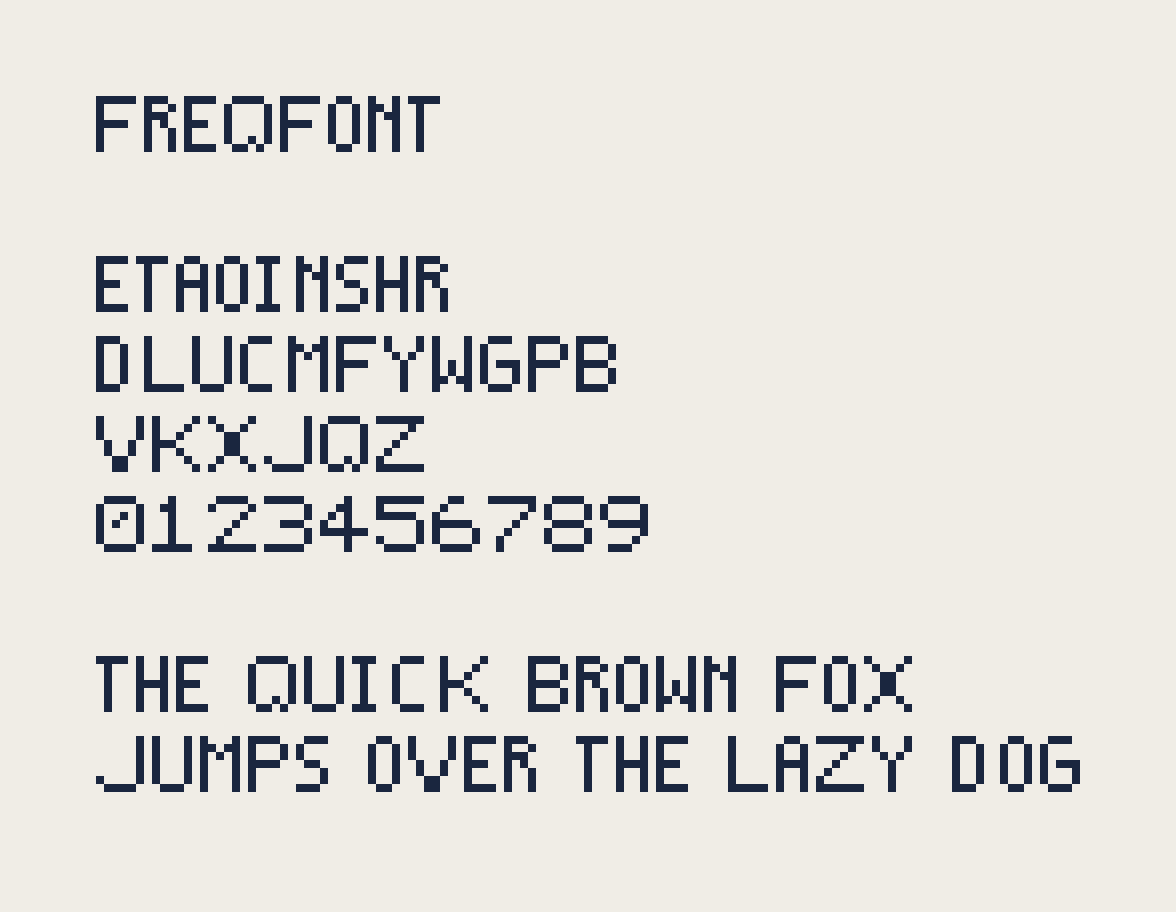
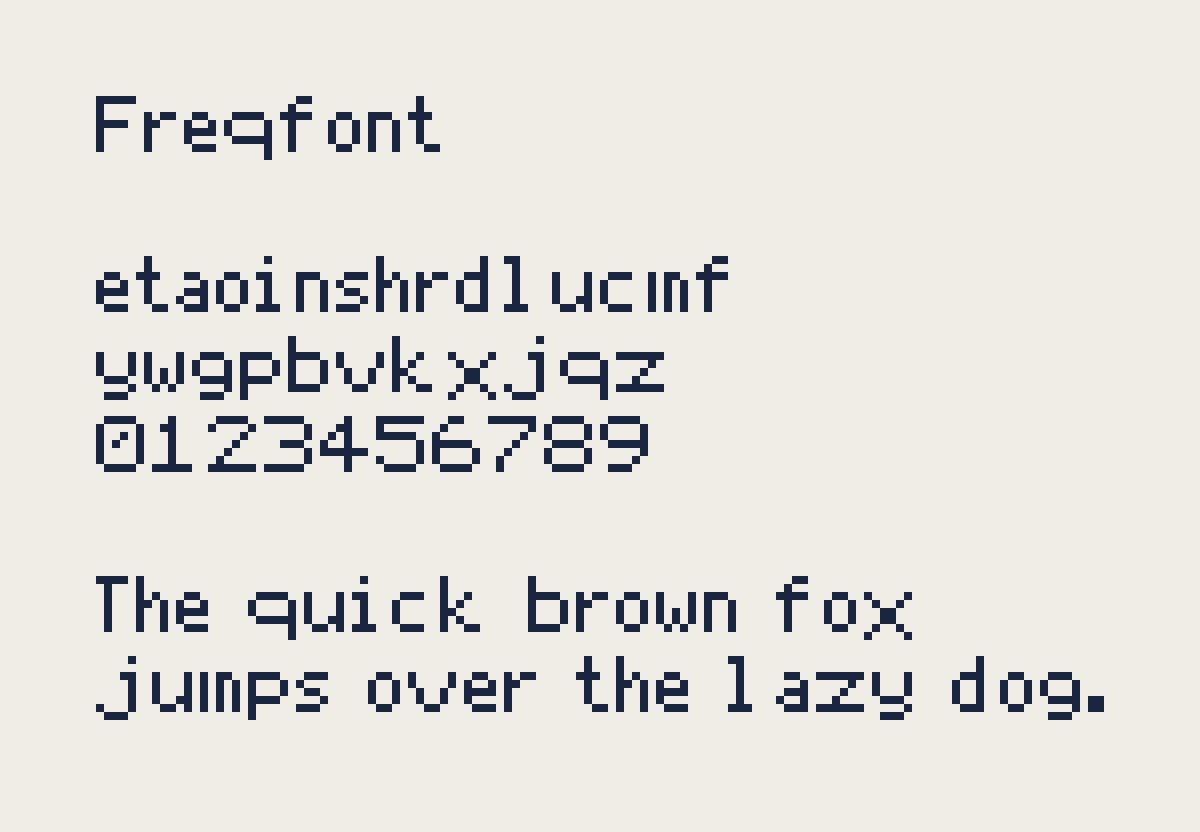
cycle3 i20: freqfont lowercase — same frequency, same width, new letterforms

Changed region(s): [[0.0612, 0.2812, 0.6122, 0.625], [0.0612, 0.6875, 0.9184, 0.875], [0.0612, 0.0938, 0.3673, 0.1875]]

diff --git a/font/freqfont.py b/font/freqfont.py
@@ -68,12 +68,50 @@ GLYPHS = {
 ':':  ['..','#.','..','..','#.','..','..','..'],
 }
 
+# --- lowercase: та же частота => та же ширина ---
+# x-height = строки 2..6; восходящие 0..6, нисходящие 2..7
+LOWER = {
+# width 4
+'e': ['....','....','.##.','#..#','####','#...','.###','....'],
+'t': ['.#..','.#..','###.','.#..','.#..','.#..','..##','....'],
+'a': ['....','....','.##.','...#','.###','#..#','.###','....'],
+'o': ['....','....','.##.','#..#','#..#','#..#','.##.','....'],
+'i': ['.#..','....','##..','.#..','.#..','.#..','###.','....'],
+'n': ['....','....','###.','#..#','#..#','#..#','#..#','....'],
+'s': ['....','....','.###','#...','.##.','...#','###.','....'],
+'h': ['#...','#...','#.#.','##.#','#..#','#..#','#..#','....'],
+'r': ['....','....','#.##','##..','#...','#...','#...','....'],
+# width 5
+'d': ['...#.','...#.','.###.','#..#.','#..#.','#..#.','.###.','.....'],
+'l': ['##...','.#...','.#...','.#...','.#...','.#...','###..','.....'],
+'u': ['.....','.....','#...#','#...#','#...#','#..##','.##.#','.....'],
+'c': ['.....','.....','.###.','#....','#....','#....','.###.','.....'],
+'m': ['.....','.....','#.##.','#.#.#','#.#.#','#.#.#','#.#.#','.....'],
+'f': ['..##.','.#...','####.','.#...','.#...','.#...','.#...','.....'],
+'y': ['.....','.....','#...#','#...#','#...#','.###.','....#','.###.'],
+'w': ['.....','.....','#...#','#...#','#.#.#','#.#.#','.#.#.','.....'],
+'g': ['.....','.....','.###.','#...#','#...#','.####','....#','.###.'],
+'p': ['.....','.....','####.','#...#','#...#','####.','#....','#....'],
+'b': ['#....','#....','####.','#...#','#...#','#...#','####.','.....'],
+# width 6
+'v': ['......','......','#....#','#....#','.#..#.','.#..#.','..##..','......'],
+'k': ['#.....','#.....','#..#..','#.#...','##....','#.#...','#..##.','......'],
+'x': ['......','......','#....#','.#..#.','..##..','..##..','.#..#.','#....#'],
+'j': ['....#.','......','...##.','....#.','....#.','....#.','#...#.','.###..'],
+'q': ['......','......','.####.','#....#','#....#','.#####','.....#','.....#'],
+'z': ['......','......','######','....#.','...#..','..#...','######','......'],
+}
+GLYPHS.update(LOWER)
+
 H = 8  # высота глифа
 
 
+def glyph(c):
+    return GLYPHS.get(c, GLYPHS.get(c.upper(), GLYPHS[' ']))
+
+
 def text_width(text, spacing=1):
-    return sum(len(GLYPHS.get(c, GLYPHS[' '])[0]) + spacing
-               for c in text.upper()) - spacing
+    return sum(len(glyph(c)[0]) + spacing for c in text) - spacing
 
 
 def render_lines(lines, scale=8, spacing=1, pad=12):
@@ -89,8 +127,8 @@ def render_lines(lines, scale=8, spacing=1, pad=12):
     for li, line in enumerate(lines):
         x = pad
         y = pad + li * (H + 2)
-        for c in line.upper():
-            g = GLYPHS.get(c, GLYPHS[' '])
+        for c in line:
+            g = glyph(c)
             for ry, row in enumerate(g):
                 for rx, px in enumerate(row):
                     if px == '#':
@@ -101,15 +139,14 @@ def render_lines(lines, scale=8, spacing=1, pad=12):
 
 if __name__ == '__main__':
     lines = [
-        'FREQFONT',
+        'Freqfont',
         '',
-        'ETAOINSHR',
-        'DLUCMFYWGPB',
-        'VKXJQZ',
+        'etaoinshrdlucmf',
+        'ywgpbvkxjqz',
         '0123456789',
         '',
-        'THE QUICK BROWN FOX',
-        'JUMPS OVER THE LAZY DOG',
+        'The quick brown fox',
+        'jumps over the lazy dog.',
     ]
     img = render_lines(lines, scale=8)
     img.save('font/specimen.png')

diff --git a/history.md b/history.md
@@ -2423,3 +2423,14 @@ data — regenerable, deletable, never touches the append-only
 journal. MEMORY.md §2 contract updated (digest = arc cache).
 Reddit pacing check: chirality post only 0.9h old — the
 museum post stays deferred; the loop is faster than the wall.
+
+## Cycle 3, i20 — freqfont gets its lowercase
+
+26 lowercase glyphs on the existing 8-row grid: x-height rows
+2-6, ascenders up to 0, descenders borrow row 7 (was empty
+leading). Concept held honestly: frequency is a property of
+the LETTER not the case — 'e' and 'E' are equally narrow.
+`glyph()` keeps case with uppercase fallback. Specimen:
+pangram in real sentence case, readable at pixel scale.
+Bug while editing: pasted the LOWER dict inside the GLYPHS
+literal — syntax-caught, removed the dup.

diff --git a/font/README.md b/font/README.md
@@ -11,3 +11,8 @@
 теорией информации.
 
 Специмен: `specimen.png` (`py -3 font/freqfont.py`).
+
+## lowercase (cycle3 i20)
+26 глифов: x-height строки 2-6, восходящие 0-6, нисходящие 2-7.
+Ширина по частоте буквы, регистр её не меняет — e и E одинаковы.
+`glyph()` — регистро-сохраняющий поиск с fallback на верхний.
